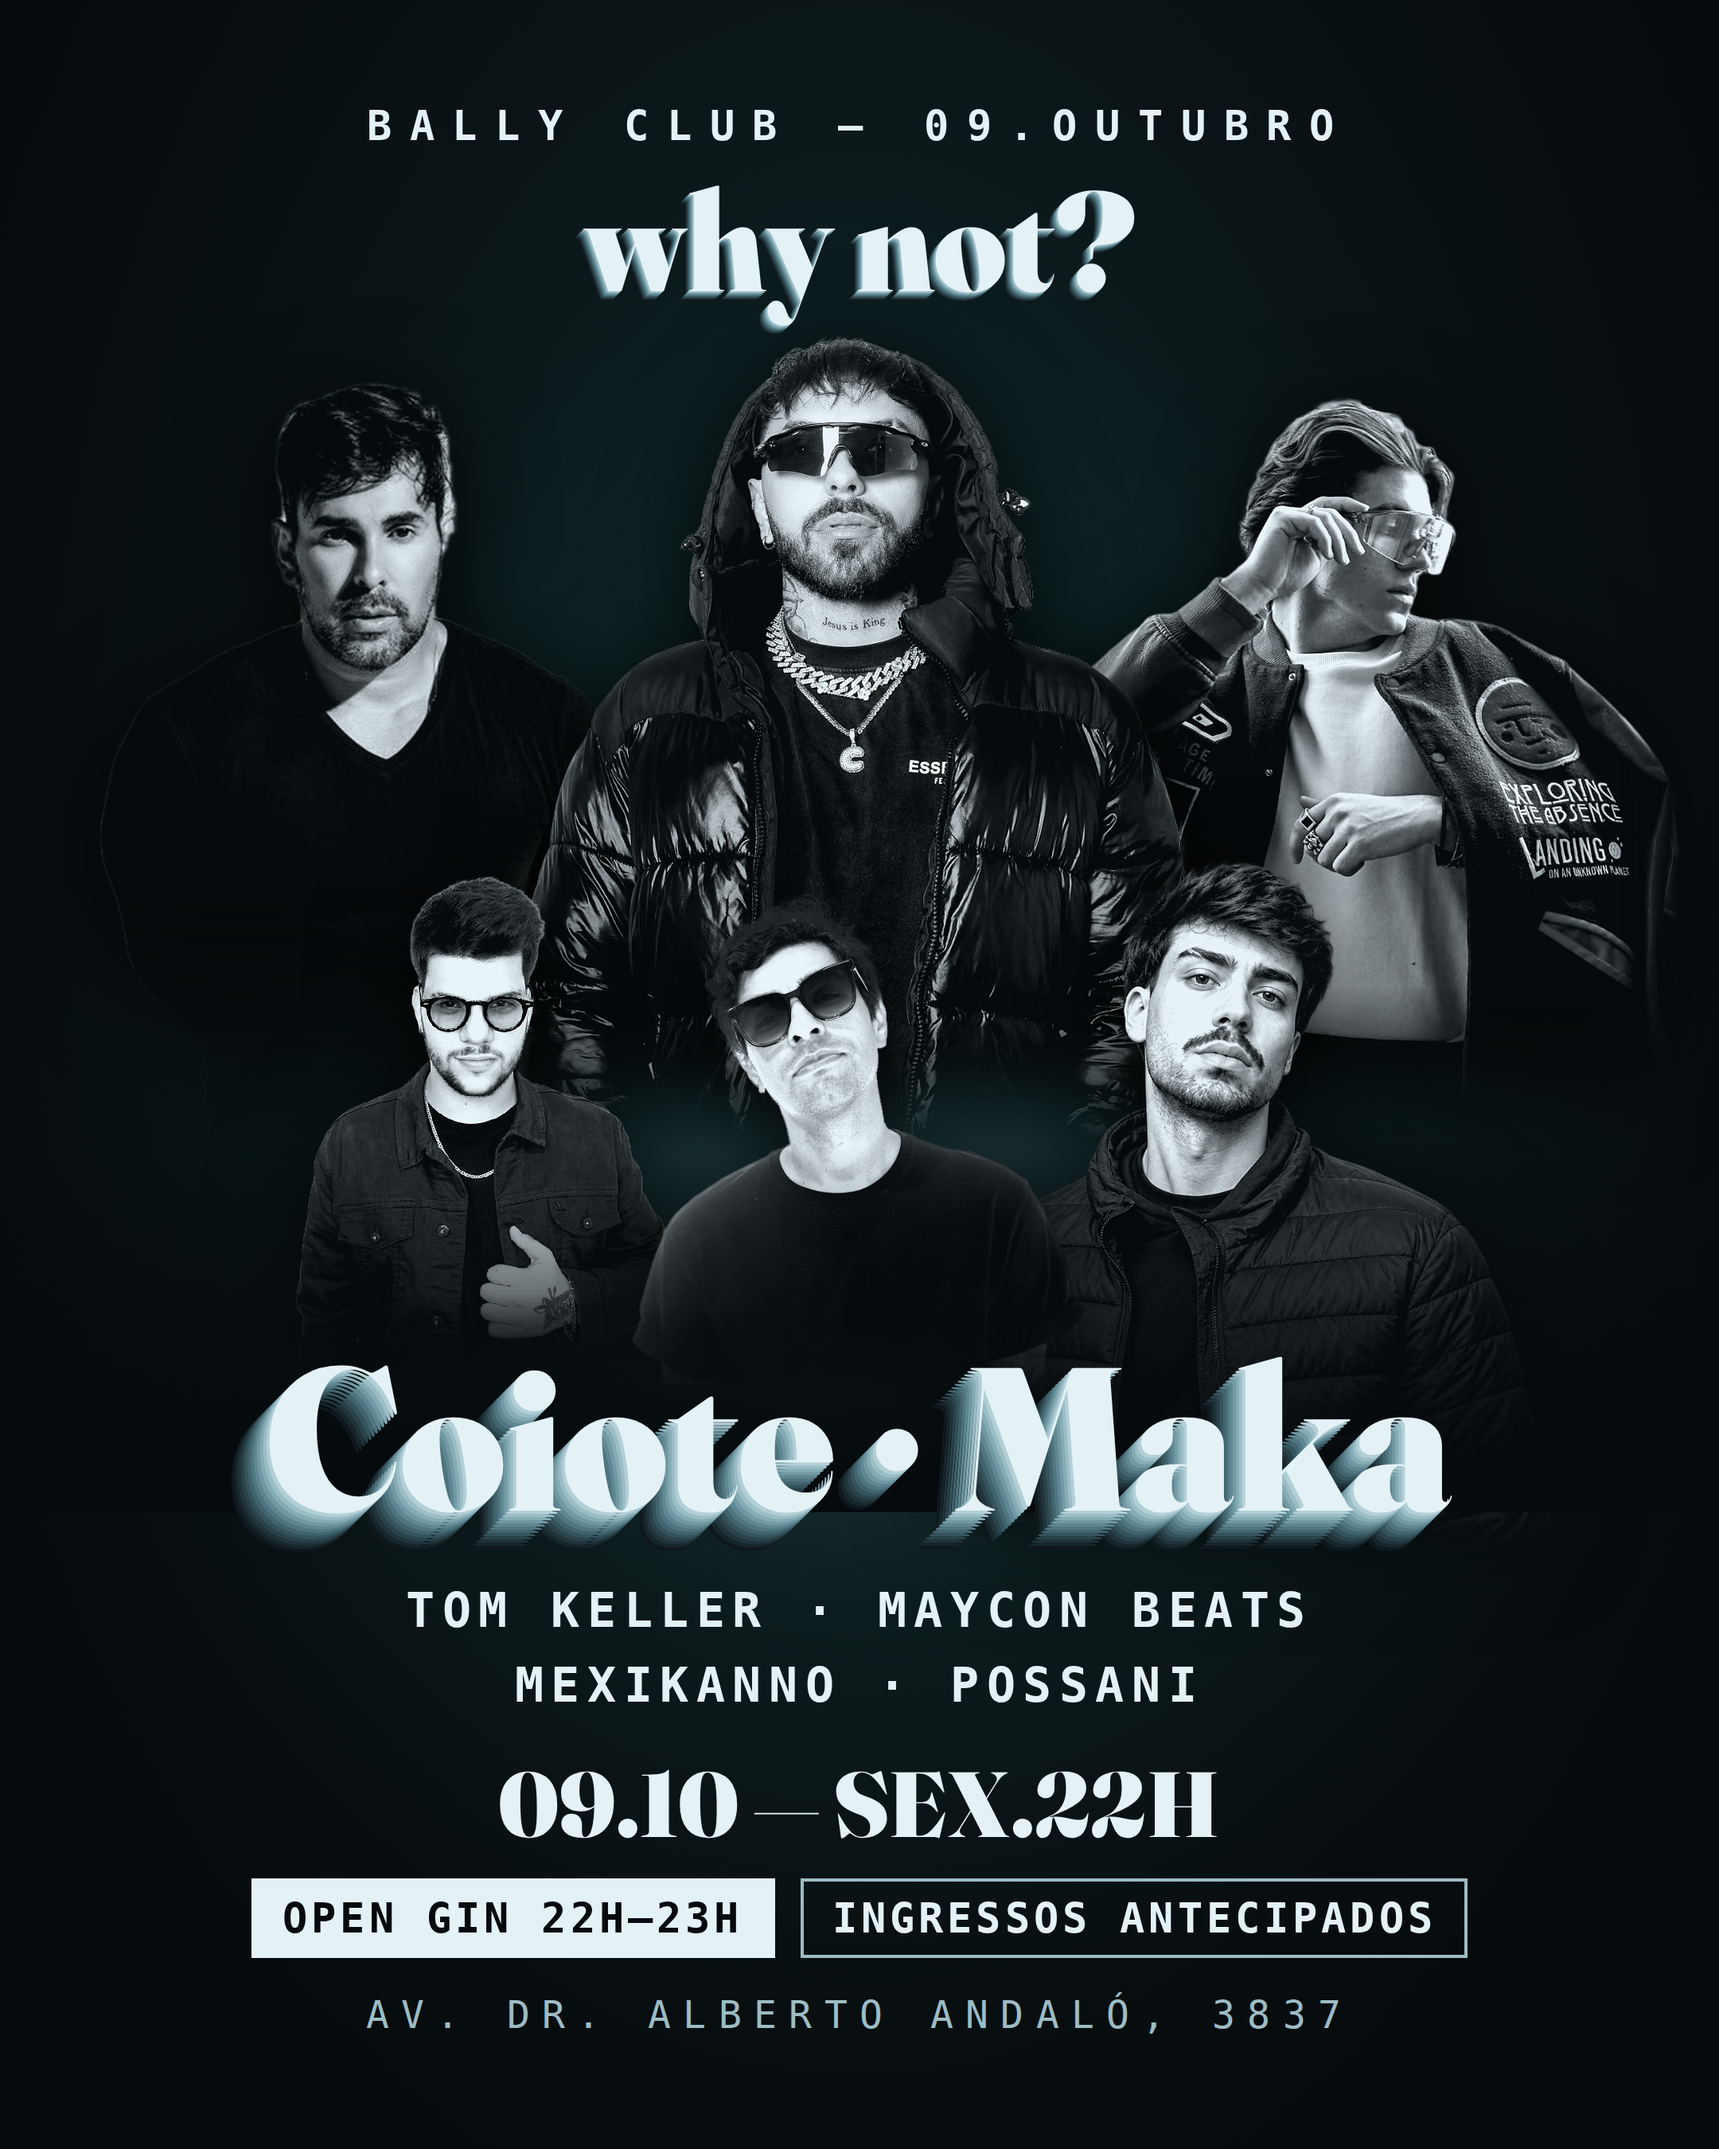
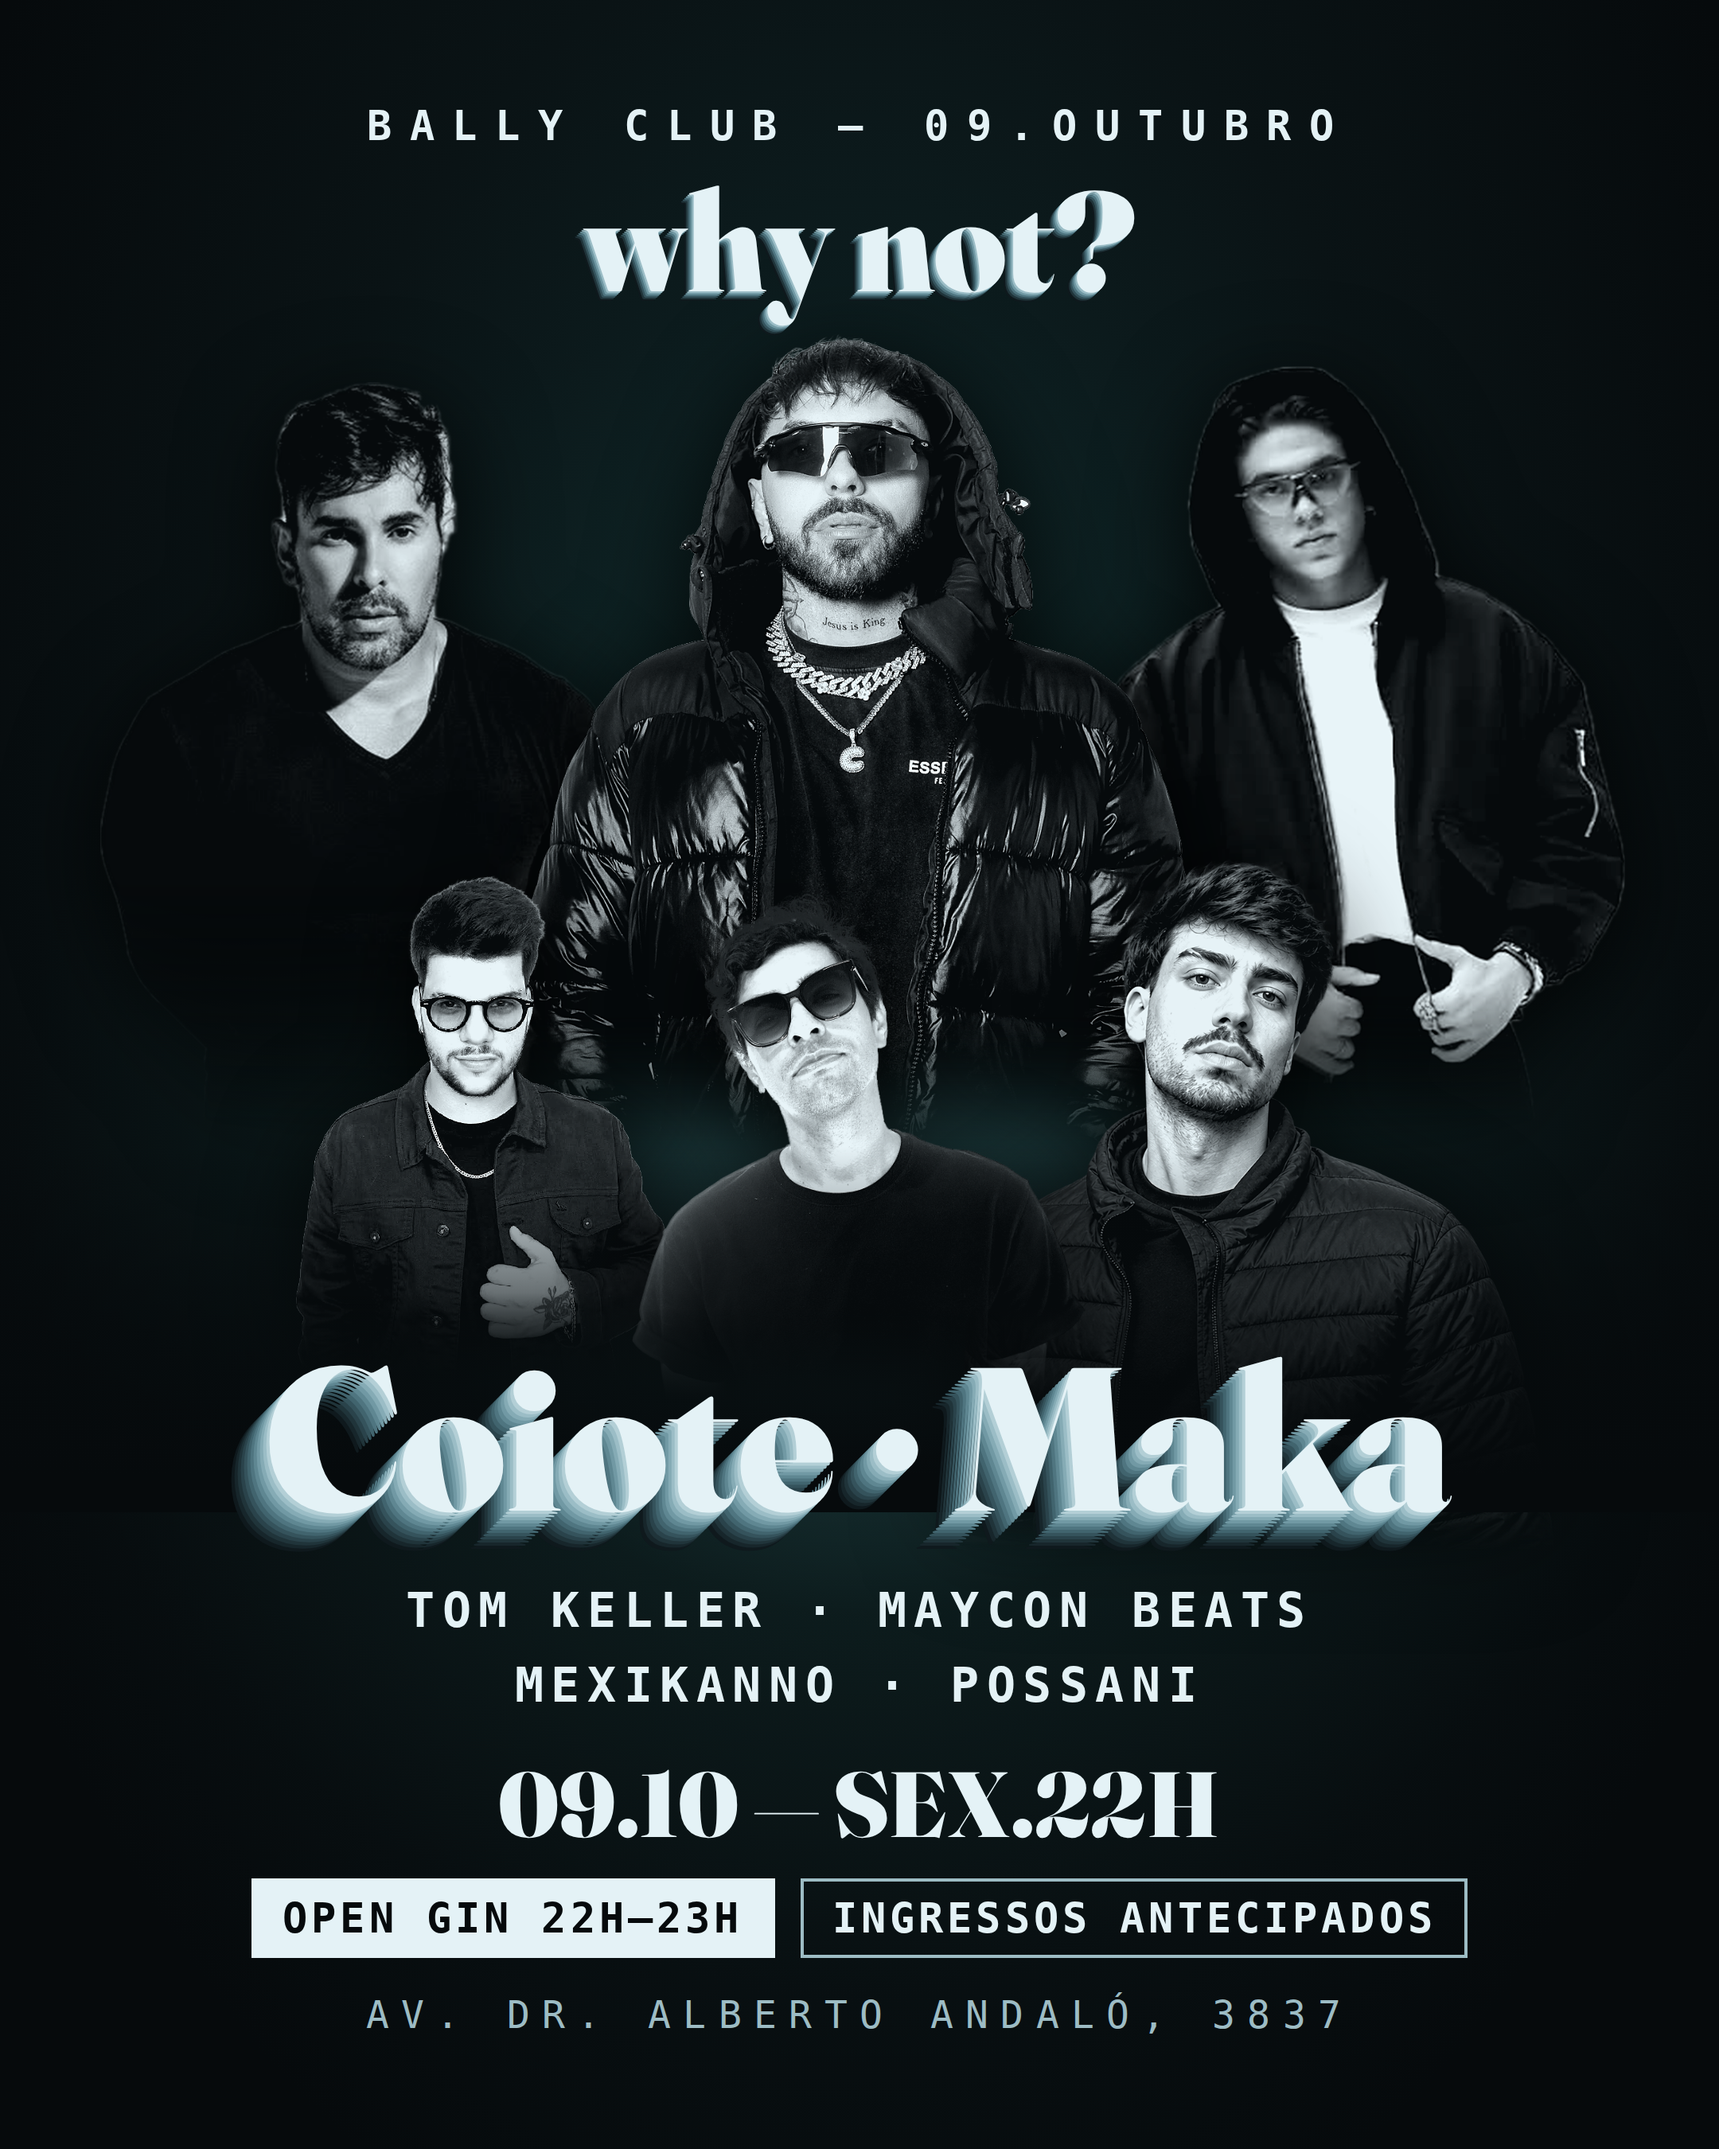
Nova foto do Maka nos flyers (feed, stories e É amanhã)
Claude-Session: https://claude.ai/code/session_01EB6L4Lkud6PcZEDw1BW6Na

Changed region(s): [[0.6204, 0.1867, 0.9616, 0.4978]]

diff --git a/identidade/edicao-01/canvas-boards/FeedVespera.dc.html b/identidade/edicao-01/canvas-boards/FeedVespera.dc.html
@@ -23,7 +23,7 @@ body{margin:0;background:#060a0c;font-family:'Space Mono',monospace;color:#e4f2f
 <div style="position: absolute; left: 50%; top: -40px; width: 1100px; height: 1100px; transform: translateX(-50%); background: radial-gradient(circle, rgba(80,150,155,0.40) 0%, rgba(18,48,46,0.22) 38%, rgba(6,10,12,0) 68%)"></div>
 <div style="position: absolute; left: 50%; top: -260px; width: 1700px; height: 1140px; transform: translateX(-50%); background: conic-gradient(from 180deg at 50% 0%, transparent 152deg, rgba(228,242,246,0.08) 165deg, transparent 172deg, transparent 188deg, rgba(228,242,246,0.08) 195deg, transparent 208deg)"></div>
 <img src="/_blob/6f9f48c2a707bac59f303674344e74e9" alt="" style="position: absolute; left: 63px; top: 30px; height: 470px; z-index: 1; filter: brightness(1.0) drop-shadow(0 12px 30px rgba(0,0,0,0.85))">
-<img src="/_blob/97eb854dbb3c8647fa9f9ea7f5e4ea7b" alt="" style="position: absolute; left: 654px; top: 40px; height: 450px; z-index: 1; filter: brightness(1.0) drop-shadow(0 12px 30px rgba(0,0,0,0.85))">
+<img src="/_blob/ad0d0f77c951c9c2a043783a4b433224" alt="" style="position: absolute; left: 678px; top: 20px; height: 480px; z-index: 1; filter: brightness(1.0) drop-shadow(0 12px 30px rgba(0,0,0,0.85))">
 <img src="/_blob/874082e7e3c3ebc19c754947d2147472" alt="" style="position: absolute; left: 324px; top: 0px; height: 520px; z-index: 2; filter: brightness(1.0) drop-shadow(0 12px 30px rgba(0,0,0,0.85))">
 <img src="/_blob/55a3bf7509ac2e1a93e04f79e566c966" alt="" style="position: absolute; left: 186px; bottom: 80px; height: 320px; z-index: 5; filter: brightness(1.0) drop-shadow(0 12px 30px rgba(0,0,0,0.85))">
 <img src="/_blob/9175e9ba42ccfe1808ec8578f27d1f6c" alt="" style="position: absolute; left: 397px; bottom: 70px; height: 320px; z-index: 6; filter: brightness(1.0) drop-shadow(0 12px 30px rgba(0,0,0,0.85))">

diff --git a/identidade/edicao-01/canvas-boards/FlyerFeed.dc.html b/identidade/edicao-01/canvas-boards/FlyerFeed.dc.html
@@ -23,7 +23,7 @@ body{margin:0;background:#060a0c;font-family:'Space Mono',monospace;color:#e4f2f
 <div style="position: absolute; left: 50%; top: -40px; width: 1100px; height: 1100px; transform: translateX(-50%); background: radial-gradient(circle, rgba(80,150,155,0.40) 0%, rgba(18,48,46,0.22) 38%, rgba(6,10,12,0) 68%)"></div>
 <div style="position: absolute; left: 50%; top: -260px; width: 1700px; height: 1140px; transform: translateX(-50%); background: conic-gradient(from 180deg at 50% 0%, transparent 152deg, rgba(228,242,246,0.08) 165deg, transparent 172deg, transparent 188deg, rgba(228,242,246,0.08) 195deg, transparent 208deg)"></div>
 <img src="/_blob/6f9f48c2a707bac59f303674344e74e9" alt="" style="position: absolute; left: 63px; top: 30px; height: 470px; z-index: 1; filter: brightness(1.0) drop-shadow(0 12px 30px rgba(0,0,0,0.85))">
-<img src="/_blob/97eb854dbb3c8647fa9f9ea7f5e4ea7b" alt="" style="position: absolute; left: 654px; top: 40px; height: 450px; z-index: 1; filter: brightness(1.0) drop-shadow(0 12px 30px rgba(0,0,0,0.85))">
+<img src="/_blob/ad0d0f77c951c9c2a043783a4b433224" alt="" style="position: absolute; left: 678px; top: 20px; height: 480px; z-index: 1; filter: brightness(1.0) drop-shadow(0 12px 30px rgba(0,0,0,0.85))">
 <img src="/_blob/874082e7e3c3ebc19c754947d2147472" alt="" style="position: absolute; left: 324px; top: 0px; height: 520px; z-index: 2; filter: brightness(1.0) drop-shadow(0 12px 30px rgba(0,0,0,0.85))">
 <img src="/_blob/55a3bf7509ac2e1a93e04f79e566c966" alt="" style="position: absolute; left: 186px; bottom: 80px; height: 320px; z-index: 5; filter: brightness(1.0) drop-shadow(0 12px 30px rgba(0,0,0,0.85))">
 <img src="/_blob/9175e9ba42ccfe1808ec8578f27d1f6c" alt="" style="position: absolute; left: 397px; bottom: 70px; height: 320px; z-index: 6; filter: brightness(1.0) drop-shadow(0 12px 30px rgba(0,0,0,0.85))">

diff --git a/identidade/edicao-01/canvas-boards/FlyerStory.dc.html b/identidade/edicao-01/canvas-boards/FlyerStory.dc.html
@@ -23,7 +23,7 @@ body{margin:0;background:#060a0c;font-family:'Space Mono',monospace;color:#e4f2f
 <div style="position: absolute; left: 50%; top: -42px; width: 1100px; height: 1100px; transform: translateX(-50%); background: radial-gradient(circle, rgba(80,150,155,0.40) 0%, rgba(18,48,46,0.22) 38%, rgba(6,10,12,0) 68%)"></div>
 <div style="position: absolute; left: 50%; top: -275px; width: 1700px; height: 1200px; transform: translateX(-50%); background: conic-gradient(from 180deg at 50% 0%, transparent 152deg, rgba(228,242,246,0.08) 165deg, transparent 172deg, transparent 188deg, rgba(228,242,246,0.08) 195deg, transparent 208deg)"></div>
 <img src="/_blob/6f9f48c2a707bac59f303674344e74e9" alt="" style="position: absolute; left: 53px; top: 31px; height: 498px; z-index: 1; filter: brightness(1.0) drop-shadow(0 12px 30px rgba(0,0,0,0.85))">
-<img src="/_blob/97eb854dbb3c8647fa9f9ea7f5e4ea7b" alt="" style="position: absolute; left: 642px; top: 42px; height: 477px; z-index: 1; filter: brightness(1.0) drop-shadow(0 12px 30px rgba(0,0,0,0.85))">
+<img src="/_blob/ad0d0f77c951c9c2a043783a4b433224" alt="" style="position: absolute; left: 668px; top: 21px; height: 508px; z-index: 1; filter: brightness(1.0) drop-shadow(0 12px 30px rgba(0,0,0,0.85))">
 <img src="/_blob/874082e7e3c3ebc19c754947d2147472" alt="" style="position: absolute; left: 311px; top: 0px; height: 551px; z-index: 2; filter: brightness(1.0) drop-shadow(0 12px 30px rgba(0,0,0,0.85))">
 <img src="/_blob/55a3bf7509ac2e1a93e04f79e566c966" alt="" style="position: absolute; left: 179px; bottom: 84px; height: 339px; z-index: 5; filter: brightness(1.0) drop-shadow(0 12px 30px rgba(0,0,0,0.85))">
 <img src="/_blob/9175e9ba42ccfe1808ec8578f27d1f6c" alt="" style="position: absolute; left: 389px; bottom: 74px; height: 339px; z-index: 6; filter: brightness(1.0) drop-shadow(0 12px 30px rgba(0,0,0,0.85))">

diff --git a/identidade/ferramentas/flyer2.py b/identidade/ferramentas/flyer2.py
@@ -1,6 +1,6 @@
 P='/tmp/claude-0/-home-claude/85f2d3d2-8d73-51f7-b638-521bd0946f03/scratchpad/latest/project/'
 H=open(P+'MeioListaElas.dc.html').read(); pre=H[:H.index('<x-dc>')]; post=H[H.index('</x-dc>'):]
-B={'coiote':'/_blob/874082e7e3c3ebc19c754947d2147472','maka':'/_blob/97eb854dbb3c8647fa9f9ea7f5e4ea7b','tom':'/_blob/6f9f48c2a707bac59f303674344e74e9','maycon':'/_blob/55a3bf7509ac2e1a93e04f79e566c966','mex':'/_blob/9175e9ba42ccfe1808ec8578f27d1f6c','possani':'/_blob/170496fafef725cc68299d6c884b5fe7'}
+B={'coiote':'/_blob/874082e7e3c3ebc19c754947d2147472','maka':'/_blob/ad0d0f77c951c9c2a043783a4b433224','tom':'/_blob/6f9f48c2a707bac59f303674344e74e9','maycon':'/_blob/55a3bf7509ac2e1a93e04f79e566c966','mex':'/_blob/9175e9ba42ccfe1808ec8578f27d1f6c','possani':'/_blob/170496fafef725cc68299d6c884b5fe7'}
 import json; ASP=json.load(open('/tmp/claude-0/-home-claude/85f2d3d2-8d73-51f7-b638-521bd0946f03/scratchpad/lineup/asp.json')); ASP.update(json.load(open('/tmp/claude-0/-home-claude/85f2d3d2-8d73-51f7-b638-521bd0946f03/scratchpad/lineup/asp_hq.json')))
 FONT='<link href="https://fonts.googleapis.com/css2?family=Fraunces:ital,opsz,wght@0,9..144,400;0,9..144,900;1,9..144,400&amp;family=Space+Mono:wght@400;700&amp;display=swap" rel="stylesheet">'
 EXT=".ext{text-shadow:-2px 2px 0 #b3cfd6,-4px 4px 0 #9bbdc6,-6px 6px 0 #85abb5,-8px 8px 0 #7199a4,-10px 10px 0 #5f8792,-12px 12px 0 #4f7580,-14px 14px 0 #41646e,-16px 16px 0 #35535c,-18px 18px 0 #2a434b,-20px 20px 0 #20343a,-22px 22px 0 #17262b,-24px 24px 0 #0f191d} .ext2{text-shadow:-1px 1px 0 #9bbdc6,-2px 2px 0 #7199a4,-3px 3px 0 #4f7580,-4px 4px 0 #35535c,-5px 5px 0 #20343a,-6px 6px 0 #0f191d}"
@@ -13,7 +13,7 @@ def cluster(Hc,s=1.0):
 <div style="position: absolute; left: 50%; top: {S(-40)}px; width: 1100px; height: 1100px; transform: translateX(-50%); background: radial-gradient(circle, rgba(80,150,155,0.40) 0%, rgba(18,48,46,0.22) 38%, rgba(6,10,12,0) 68%)"></div>
 <div style="position: absolute; left: 50%; top: {S(-260)}px; width: 1700px; height: {Hc+400}px; transform: translateX(-50%); background: conic-gradient(from 180deg at 50% 0%, transparent 152deg, rgba(228,242,246,0.08) 165deg, transparent 172deg, transparent 188deg, rgba(228,242,246,0.08) 195deg, transparent 208deg)"></div>
 {place('tom',225,'top',S(30),S(470),1,1.0)}
-{place('maka',855,'top',S(40),S(450),1,1.0)}
+{place('maka',850,'top',S(20),S(480),1,1.0)}
 {place('coiote',540,'top',S(0),S(520),2,1.0)}
 {place('maycon',305,'bottom',S(80),S(320),5,1.0)}
 {place('mex',540,'bottom',S(70),S(320),6,1.0)}
